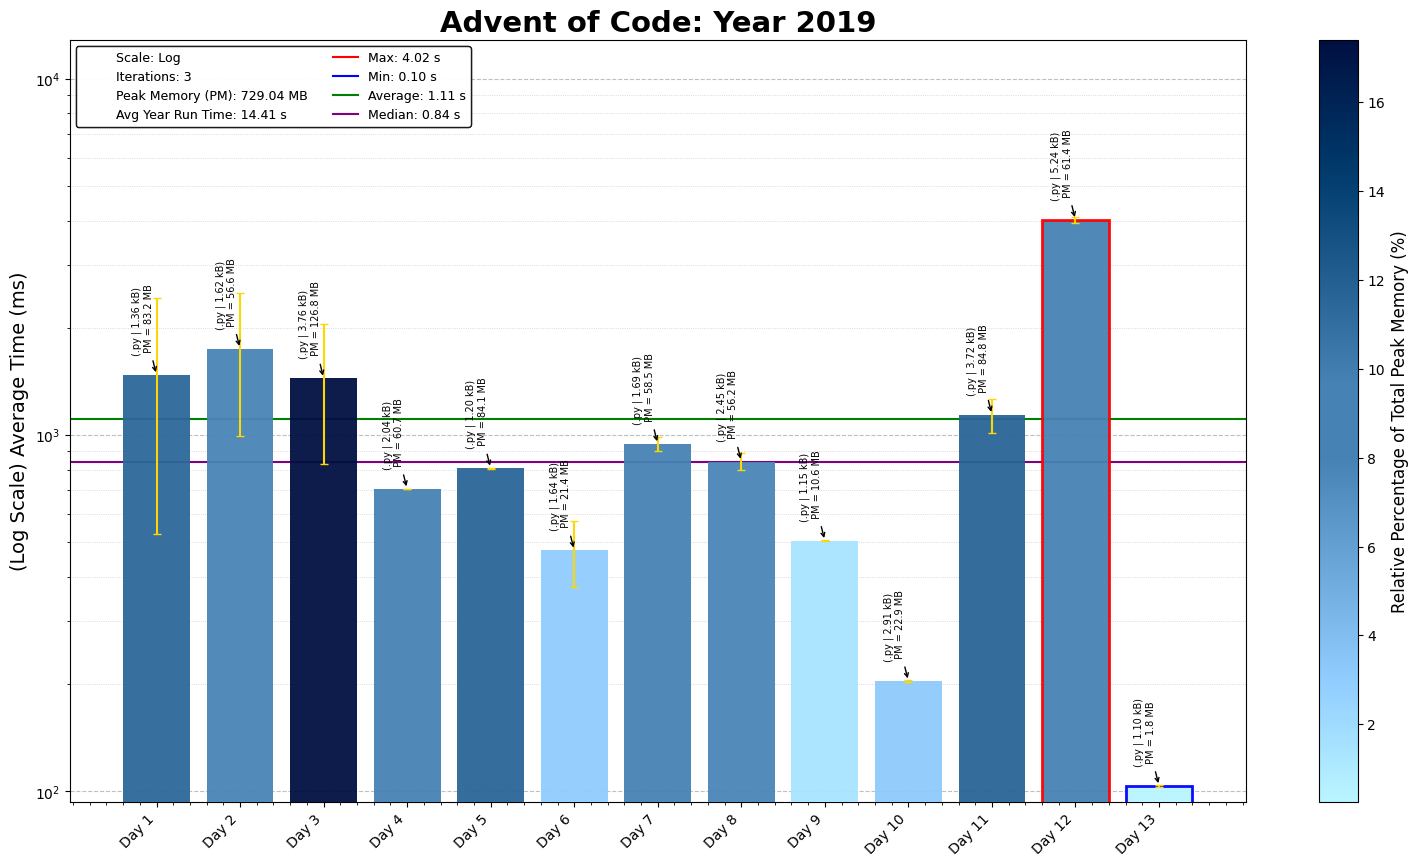
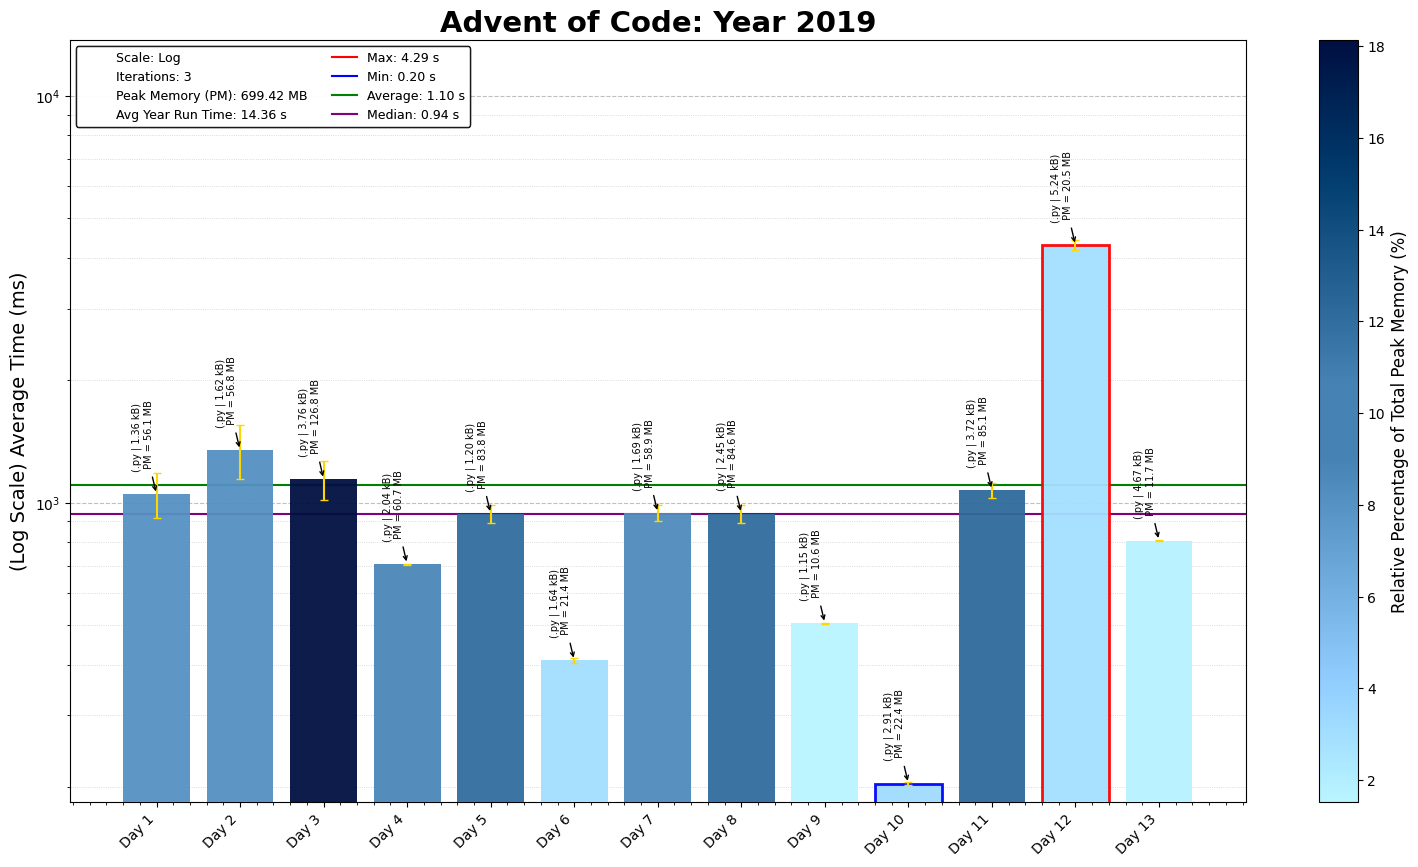
2019 Day 13 P2 (intcode)

diff --git a/2019/Intcode_Computer/Intcode_Computer.py b/2019/Intcode_Computer/Intcode_Computer.py
@@ -1,35 +1,71 @@
 class Intcode_CPU:
-    def __init__(self, program: list[int], init_inputs = None, pointer: int = 0, debug: bool = False):
+    def __init__(self, program: list[int], init_inputs=None, pointer: int = 0, debug: bool = False):
         """
-        Initialize the Intcode Program with a copy of the program,
-            a pointer, inputs, and optional debugging.
+        Initialize the Intcode Program.
+
+        Args:
+            program (list[int]): The Intcode program as a list of integers.
+            init_inputs (list[int] or int, optional): Initial inputs for the program,
+                                                    can be a single integer or a list.
+            pointer (int, optional): The initial instruction pointer position (default is 0).
+            debug (bool, optional): Enable debugging mode (default is False).
+
+        Attributes:
+            program (list[int]): A copy of the original Intcode program.
+            memory (dict): A dictionary-based dynamic memory, initialized with the program values.
+            pointer (int): Current instruction pointer position in the program.
+            output_list (list): List to store output values generated during execution.
+            paused (bool): Flag to indicate if the program is paused (e.g., waiting for input).
+            running (bool): Flag to indicate if the program is still running (not halted).
+            debug (bool): Debug mode flag to enable verbose logging during execution.
+            relative_base (int): The relative base used in mode 2 for memory addressing.
+            inputs_queue (list): Queue to hold input values for the program's execution.
         """
+        # Make a copy of the input program to avoid modifying the original
         self.program = program.copy()
+
+        # Set the initial instruction pointer
         self.pointer = pointer
-        self.memory = {i: v for i, v in enumerate(self.program)}  # Dynamic memory
-        self.output_list = []  # Stores output values
-        self.paused = False    # Paused state
-        self.running = True    # Execution flag
-        self.debug = debug     # Debugging flag
-        self.relative_base = 0 # Relative base for mode 2
+
+        # Relative base used for address calculations in mode 2
+        self.relative_base = 0
+
+        # Convert the program into a dictionary-based memory for dynamic access
+        # Keys represent addresses, and values represent the data at those addresses
+        self.memory = {i: v for i, v in enumerate(self.program)}
+
+        # List to store output values generated by the program
+        self.output_list = []
+
+        # Flags for execution state
+        self.paused = False    # Indicates if the program is paused (e.g., waiting for input)
+        self.running = True    # Indicates if the program is still running (not halted)
+
+        # Debugging mode flag
+        self.debug = debug     # If True, additional debug information can be printed/logged
+
+        # Initialize the input queue
         if isinstance(init_inputs, list):
+            # If inputs are provided as a list, use them directly
             self.inputs_queue = init_inputs
         elif isinstance(init_inputs, int):
+            # If a single integer is provided, wrap it in a list
             self.inputs_queue = [init_inputs]
         else:
+            # Default to an empty list if no inputs are provided
             self.inputs_queue = []
 
         self.opcode_map = {
             99: self.__halt,
-            1: lambda: self.__arithmetic(operator='add', args_reqd=4),
-            2: lambda: self.__arithmetic(operator='mul', args_reqd=4),
-            3: lambda: self.__input(args_reqd=2),
-            4: lambda: self.__output(args_reqd=2),
-            5: lambda: self.__jump_op(jump_if='True',     args_reqd=3),
-            6: lambda: self.__jump_op(jump_if='False',    args_reqd=3),
-            7: lambda: self.__comp_op(comparison='less',  args_reqd=4),
-            8: lambda: self.__comp_op(comparison='equal', args_reqd=4),
-            9: lambda: self.__relative(args_reqd=2),
+            1: lambda: self.__arithmetic('add', 4),
+            2: lambda: self.__arithmetic('mul', 4),
+            3: lambda: self.__input(2),
+            4: lambda: self.__output(2),
+            5: lambda: self.__jump_op('True',  3),
+            6: lambda: self.__jump_op('False', 3),
+            7: lambda: self.__comp_op('less',  4),
+            8: lambda: self.__comp_op('equal', 4),
+            9: lambda: self.__relative(2),
         }
 
 
@@ -73,7 +109,7 @@ class Intcode_CPU:
         if self.debug:
             print(f"[{self.pointer:07}: HALT] Program stopped")
 
-    def __arithmetic(self, args_reqd: int, operator: str):
+    def __arithmetic(self, operator: str, args_reqd: int):
         """
         Perform arithmetic operation based on the operator ('add' or 'mult').
         """
@@ -127,7 +163,7 @@ class Intcode_CPU:
 
         return output_val
 
-    def __jump_op(self, args_reqd: int, jump_if: str):
+    def __jump_op(self, jump_if: str, args_reqd: int):
         """
         Perform jump operations based on the condition (`jump_if`).
         """
@@ -145,7 +181,7 @@ class Intcode_CPU:
             condition = "!= 0" if jump_if == 'True' else "== 0"
             print(f"[{og_pointer:07}: JMP] A({A_addr}): {A_val} {condition}, Jumped to: {self.pointer:07}")
 
-    def __comp_op(self, args_reqd: int, comparison: str):
+    def __comp_op(self, comparison: str, args_reqd: int):
         """
         Perform comparison operations based on the condition (`comparison`).
         """
@@ -200,4 +236,4 @@ class Intcode_CPU:
         elif return_type == "both":
             return ([self.memory[i] for i in sorted(self.memory.keys())], self.output_list)
         else:
-            raise ValueError(f"Invalid return_type '{return_type}'. Must be 'memory', 'output', 'program', or 'both'.")
+            raise ValueError(f"Invalid return_type '{return_type}'. Must be 'memory', 'output', or 'both'.")

diff --git a/2019/13/2019Day13.py b/2019/13/2019Day13.py
@@ -6,32 +6,123 @@
 
 #!/usr/bin/env python3
 
-import os, sys
+import os, sys, copy, time
+start_time = time.time()
 
 intcode_path = os.path.join(os.path.dirname(__file__), "..", "Intcode_Computer")
 sys.path.append(intcode_path)
-
-from Intcode_Computer import Intcode_CPU
+# from Intcode_Computer import Intcode_CPU
 
 # Load the input data from the specified file path
 D13_file = "Day13_input.txt"
 D13_file_path = os.path.join(os.path.dirname(os.path.abspath(__file__)), D13_file)
-
-
 
 # Read and parse input data
 with open(D13_file_path) as file:
     input_data = file.read().strip().split(',')
     input_program = [int(num) for num in input_data]
 
-def start_game(game_software):
-    robot_cpu = Intcode_CPU(game_software)
-    robot_cpu.process_program()
-    output = robot_cpu.get_result('output')
-    tile_list = list(zip(output[::3], output[1::3], output[2::3]))
-    return tile_list
+class Intcode_Arcade:
+    def __init__(self, software: list[int], quarters: int = 0):
+        """
+        Initialize the arcade with the given software and set the game mode.
+        """
+        # Modify the software to enable free play
+        self.software = software.copy()
+        if quarters != 0:
+            self.software[0] = quarters  # Set position 0 to 2 for free play
 
-exit_tiles = start_game(input_program)
-block_count = sum(1 for _, _, tile in exit_tiles if tile == 2)
+        from Intcode_Computer import Intcode_CPU
+        self.console = Intcode_CPU(self.software)
 
+    def run_console(self, joystick_input = None):
+        """
+        Runs the Intcode program and retrieves the tile updates.
+        """
+        self.console.process_program(external_input=joystick_input)
+
+        # Process outputs in batches of three
+        output = self.console.get_result('output')
+        tile_dict = {(output[i], output[i + 1]): output[i + 2] \
+                        for i in range(0, len(output), 3)}
+        return tile_dict
+
+    def play_game(self, show_screen: bool = False):
+        """
+        Plays the Intcode arcade breakout game and returns the final score.
+        """
+        # Initialize the game state
+        score, ball_x, paddle_x = 0, 0, 0
+        joystick_input = None
+        original_tiles = {}
+
+        # Play the game on the arcade console
+        while self.console.running:
+
+            tile_updates = self.run_console(joystick_input)
+
+            for (x, y), tile_id in tile_updates.items():
+                if (x, y) == (-1, 0):
+                    score = tile_id  # Update the score
+                elif tile_id == 3:  # Paddle position
+                    paddle_x = x
+                elif tile_id == 4:  # Ball position
+                    ball_x = x
+
+            # Determine joystick input based on paddle and ball positions
+            if ball_x < paddle_x:
+                joystick_input = -1  # Move paddle left
+            elif ball_x > paddle_x:
+                joystick_input = +1  # Move paddle right
+            else:
+                joystick_input =  0  # Stay neutral
+
+            # Clear the output buffer and unpause console
+            self.console.output_list = []
+            self.console.paused = False
+
+            # Show the game screen if enabled
+            if show_screen:
+                # Update the original tiles dictionary and show console
+                original_tiles.update(tile_updates)
+                self.show_console(original_tiles)
+
+        return score
+
+    def show_console(self, tiles: dict):
+        """
+        Displays the current state of the arcade game grid.
+        """
+        TILE_DICT = {0: '  ', 1: ' #', 2: '==', 3: '__', 4: '()'}  # Tile representations
+
+        # Determine the bounds of the grid
+        min_x = min(x for x, _ in tiles.keys())
+        max_x = max(x for x, _ in tiles.keys())
+        min_y = min(y for _, y in tiles.keys())
+        max_y = max(y for _, y in tiles.keys())
+
+        # Create the grid and print it
+        tiles_grid = []
+        for y in range(min_y, max_y + 1):  # Loop over rows (y-coordinates)
+            row = ''
+            for x in range(min_x, max_x + 1):  # Loop over columns (x-coordinates)
+                tile_id = tiles.get((x, y), 0)  # Default to empty space
+                row += TILE_DICT.get(tile_id, ' ')  # Map tile_id to its visual representation
+            tiles_grid.append(row)
+
+        # Print the grid row by row
+        print("Score:", tiles.get((-1, 0), 0))
+        print("\n".join(tiles_grid))
+        print("\n" + "." * 40)  # Separator for each game frame
+
+# Initialize and play the game
+arcade_p1 = Intcode_Arcade(input_program)
+exit_tiles = arcade_p1.run_console()
+block_count = sum(1 for tile in exit_tiles.values() if tile == 2)
 print("Part 1:", block_count)
+
+arcade_p2 = Intcode_Arcade(input_program, quarters=2)
+final_score = arcade_p2.play_game()
+print("Part 2:", final_score)
+
+# print(f"Execution Time = {time.time() - start_time:.5f}s")
